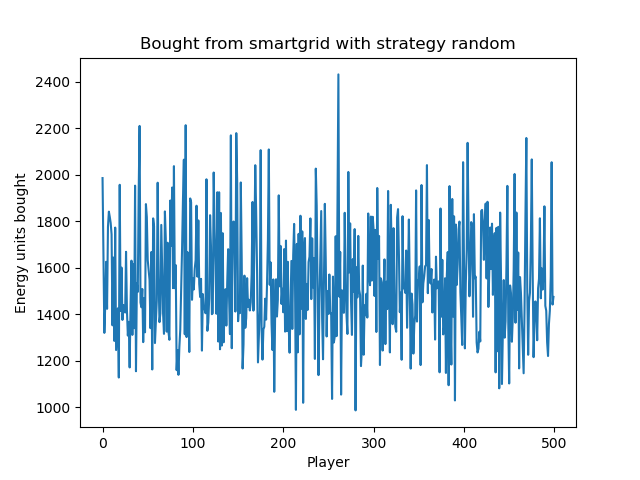
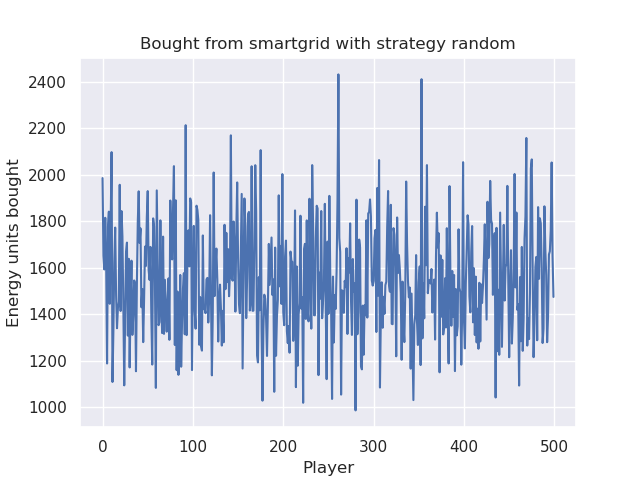
making images look very nice

diff --git a/main.py b/main.py
@@ -2,7 +2,8 @@ from microgrid.microgrid import Microgrid
 from microgrid.strategy import Strategy
 import matplotlib.pyplot as plt
 import numpy as np
-
+import seaborn as sns
+sns.set_theme()
 
 def start():
     # this values show pretty much perfect normal distribution
@@ -18,26 +19,20 @@ def start():
         "buy": Strategy(choice=Strategy.Choice.ALWAYS_BUY),
     }
     counter = 0
+    avg_battery_levels = []
     for k in strategy:
         # using random strategies for players
         m = Microgrid(n_players, strategy=strategy[k], randomize=randomize)
         for i in range(days):
             m.step()
 
-        plt.figure()
-        plt.title("avg battery levels of the players with strategy {s}".format(s=k))
-        plt.xlabel("days of simulation")
-        plt.ylabel("battery level")
         avg_batt_storage = None
         for i in m.players:
             if avg_batt_storage is None:
                 avg_batt_storage = i.battery_storage
             avg_batt_storage = np.add(avg_batt_storage,i.battery_storage)
         avg_batt_storage = avg_batt_storage/len(m.players)
-        plt.plot(avg_batt_storage)
-        mode = "battery_level"
-        plt.savefig("figures/{m}_{s}_{c}.png".format(s=k,c=counter,m=mode))
-        plt.close()
+        avg_battery_levels.append(avg_batt_storage)
 
         type_where="main"
         mode = "sold"
@@ -102,12 +97,23 @@ def start():
         plt.ylabel("Occurrence")
         avg_cash = np.sum(cash)/len(cash)
         plt.axvline(avg_cash,c='r',linewidth=5.0,label="average")
-        plt.hist(cash, bins=len(cash))
+        plt.hist(cash, bins=len(cash),color = "skyblue", ec="skyblue")
         plt.legend()
         plt.savefig("figures/{m}_{s}_{c}.png".format(s=k,c=counter,m=mode))
         plt.close()
         counter +=1
     #plt.show()
+    plt.figure()
+    plt.title("avg battery levels of the players")
+    plt.xlabel("days of simulation")
+    plt.ylabel("battery level")
+    s = ["random","gt","sell(same as gt)","buy"]
+    for i in range(len(avg_battery_levels)):
+        plt.plot(avg_battery_levels[i],label=s[i])
+    mode = "battery_level"
+    plt.legend()
+    plt.savefig("figures/{m}_{c}.png".format(c=counter,m=mode))
+    plt.close()
 
 
 if __name__ == "__main__":
